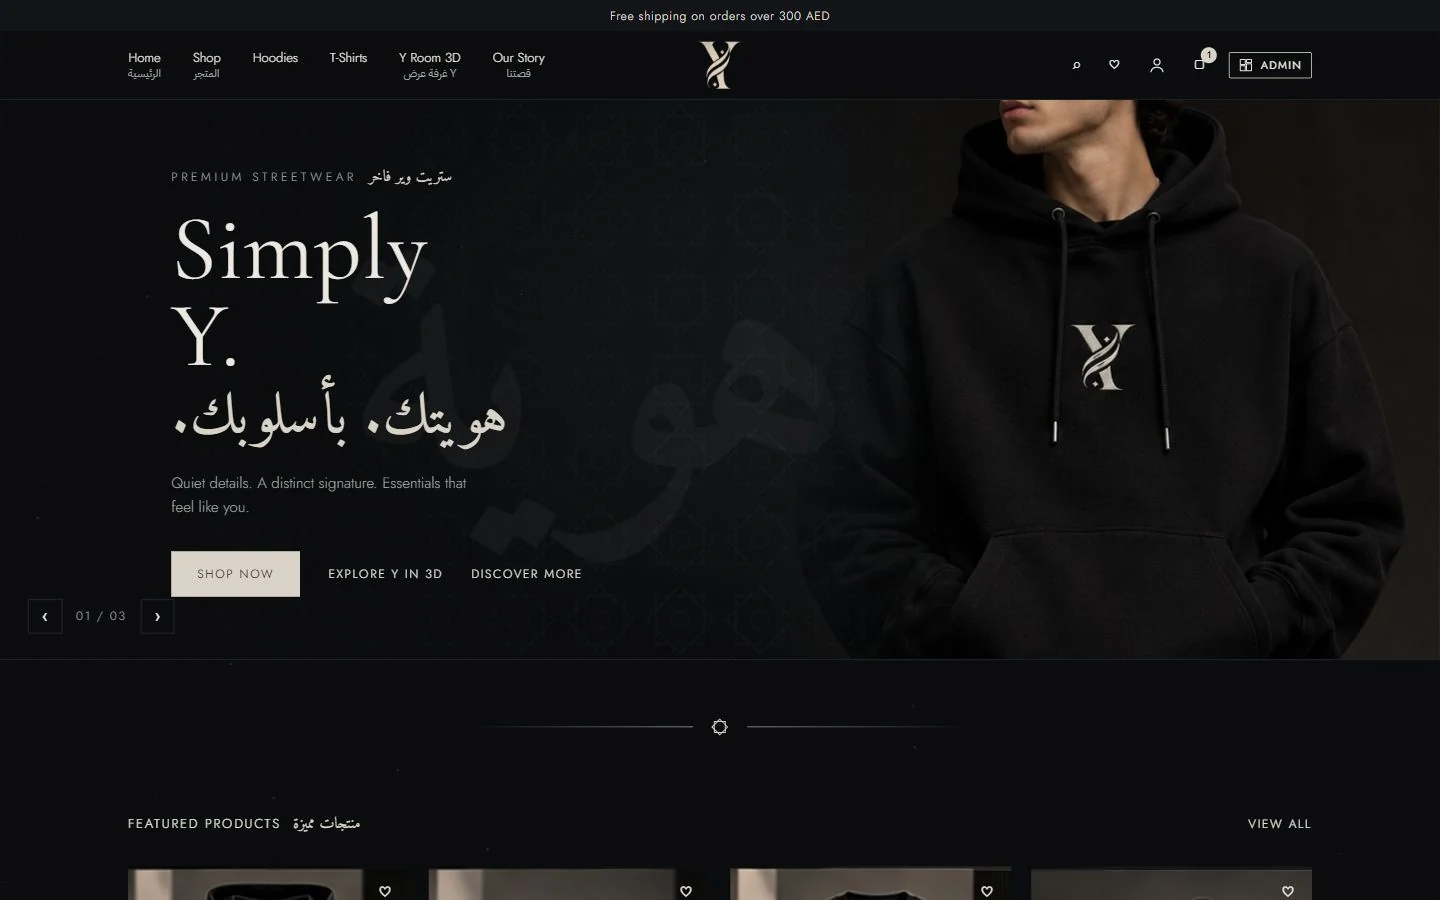
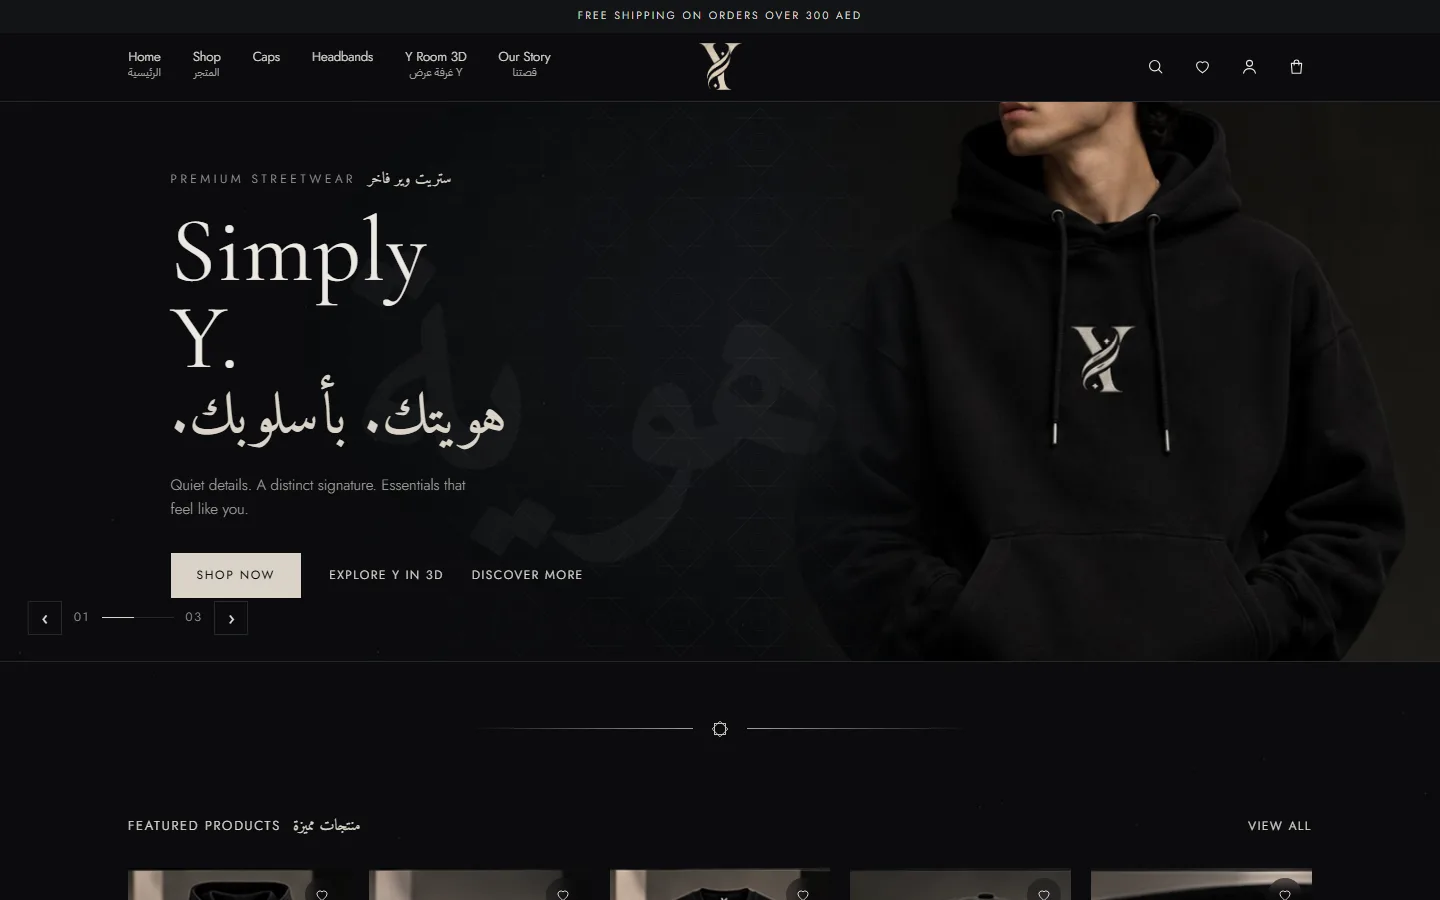
Refresh README and screenshots for the current design

diff --git a/README.md b/README.md
@@ -1,104 +1,93 @@
 # Y Store
 
-Y Store is a streetwear storefront built with Next.js and Supabase, pairing a conventional product catalog with an interactive 3D Locker Room showroom. Visitors can browse clothing and accessories, choose colours and sizes, save favourites, and place cash-on-delivery orders. A built-in browser-local demo lets you explore the interface without a database; Supabase enables persistent accounts, catalog administration and order processing.
+A full-stack streetwear store built with **Next.js 15** and **Supabase**: a bilingual English/Arabic storefront, server-rendered product pages, a transactional checkout, guest order tracking, customer accounts and an admin dashboard, plus an interactive 3D showroom.
 
-![Y Store desktop home page at 1440 by 900](docs/screenshots/01-home.webp)
+![Y Store home page](docs/screenshots/01-home.webp)
 
-## Features
+## Highlights
 
-- **Storefront:** category navigation, product search, price filtering, sorting, colour/size selection and a size guide.
-- **Cart and wishlist:** saved browser-local selections, quantity controls and a cart drawer shared with the showroom.
-- **Checkout:** delivery details, standard/express shipping, order confirmation and **cash on delivery**.
-- **Order tracking:** guests check an order's status at `/track` with the order number and checkout email.
-- **Accounts:** password sign-in, signup/email verification, password recovery and an email-code sign-in interface. Customers can edit their name, see order details and cancel an order while it is still New. Email delivery and numeric-code templates require Supabase email configuration.
-- **Admin panel:** products, colour/size inventory, categories, orders/status changes, order details/invoices, delivery rates, contact messages (read/replied) and newsletter subscribers. Connected administrators can upload product images. Demo administration is a local preview, not production authentication.
-- **3D Locker Room:** a bundled Three.js showroom whose garment selection and cart controls communicate with the store.
-- **Arabic product localization:** optional Arabic product names in the editor and product displays, plus Arabic text in parts of the interface. This is not a fully translated Arabic storefront.
+- **Database-enforced orders.** Checkout runs as a PostgreSQL function that locks products, recalculates prices and delivery on the server, and deducts per-variant stock in one transaction, so two shoppers can't buy the last item twice and a tampered cart can't change a price.
+- **Safe retries.** Each checkout carries a request UUID: retrying the same request returns the same order instead of creating a duplicate.
+- **Row-level security on every table.** Admin actions are checked on the server against `profiles.role`, never a browser flag. Guest order tracking returns status and items only, never phone numbers or addresses.
+- **Abuse limits** on orders, contact messages, newsletter sign-ups and order lookups, enforced in the database so they also cover direct API calls.
+- **SEO-ready product pages** with per-product metadata, schema.org `Product` data, a generated sitemap and stable URLs that redirect when a product is renamed.
+- **Tested.** Node.js unit tests and SQL integration tests (run in a rolled-back transaction), with GitHub Actions running tests and a production build on every push.
 
 ## Screenshots
 
-All captures use built-in demo data on an isolated local origin, without Supabase credentials or real customer records. Desktop uses a 1440 × 900 viewport; mobile uses 390 × 844. The product/cart image combines two actual captures to cover both views within six gallery files. Each image is under 300 KB.
-
-| Browse | Select and review |
+| Shop | Product page |
 | --- | --- |
-| ![Shop with category filters and product cards](docs/screenshots/02-shop.webp) | ![Product details modal and cart drawer, side by side](docs/screenshots/03-product-and-cart.webp) |
-| ![Demo admin overview and inventory/order navigation](docs/screenshots/04-admin.webp) | ![3D Locker Room showing Y clothing and accessories](docs/screenshots/05-locker-room.webp) |
+| ![Shop with category filters and product cards](docs/screenshots/02-shop.webp) | ![Product page with colour and size selection](docs/screenshots/03-product.webp) |
+| **Checkout** | **Admin dashboard** |
+| ![Checkout in three numbered steps with order summary](docs/screenshots/07-checkout.webp) | ![Admin overview with sales, orders and stock](docs/screenshots/04-admin.webp) |
 
-![Y Store home on a 390 by 844 mobile viewport](docs/screenshots/06-home-mobile.webp)
+| Mobile home | Mobile product page | 3D showroom |
+| --- | --- | --- |
+| ![Home page on a phone](docs/screenshots/06-home-mobile.webp) | ![Product page on a phone](docs/screenshots/08-product-mobile.webp) | ![3D Locker Room showroom](docs/screenshots/05-locker-room.webp) |
+
+## Features
+
+- **Storefront:** categories, search, price filter and sorting, colour and size selection with per-variant stock, size guide, wishlist and a cart drawer.
+- **Product pages:** one URL per product (`/product/essential-hoodie-0`), related products, and a quick-view window from the product grid.
+- **Checkout:** contact and delivery details, standard or express delivery with a free-delivery threshold, and cash on delivery.
+- **Order tracking:** guests look up an order at `/track` with the order number and checkout email.
+- **Accounts:** sign-up with email verification, password sign-in and recovery, order history, and cancelling an order while it is still New, which restores its stock once.
+- **Admin dashboard:** products and variant stock, categories, image uploads, orders and status changes, printable invoices, delivery rates, contact messages and newsletter subscribers.
+- **3D Locker Room:** a bundled Three.js showroom that shares the catalogue and cart with the store.
+- **Arabic touches:** Arabic product names and headings throughout the interface. It is not a fully translated Arabic storefront.
 
 ## Tech stack
 
-- **Next.js 15** App Router, server API routes and JavaScript/JSX.
-- **React 18** with shared context for cart, wishlist, catalog and session UI.
-- **Supabase** Auth, PostgreSQL and Storage, using `@supabase/supabase-js` and `@supabase/ssr`.
-- Plain CSS, a bundled **Three.js** showroom, Node.js tests and GitHub Actions.
-
-## Security and data integrity
-
-These protections apply to the connected Supabase setup after its SQL scripts are installed. Local demo mode is an interface preview.
-
-- **Row-level security:** database tables have RLS and access policies. Internal request/submission-limit tables use a non-public schema with no client access policies. See the [setup order](docs/SETUP.md#fresh-database-only).
-- **Server-side admin checks:** protected admin APIs validate the authenticated user and check `profiles.role` on the server, rather than trusting a browser flag.
-- **Authoritative orders:** database functions validate products, colours, sizes and combined quantities; recalculate prices/shipping; lock products; and update variant stock transactionally.
-- **Retry/cancellation handling:** a request UUID prevents identical checkout retries from creating another order. Reusing it for different content is rejected. Cancellation restores stock once.
-- **Rate limiting:** API handlers use an in-memory IP limiter. The supplied SQL adds shared database submission limits for orders, contact messages and newsletter inserts. These layers do not amount to comprehensive bot protection.
-- **Request/browser protections:** write APIs reject mismatching Origin headers when present. Production responses enforce a Content Security Policy and other security headers; the policy still permits inline scripts/styles needed by the current application.
-- **Order integrity tests:** [SQL tests](supabase/tests/order_integrity.sql) cover retries, unavailable variants, duplicate lines, missing sizes, cancellation and unauthorized status changes within a rollback transaction. They require a configured database and are separate from `npm test`.
+| Area | Tools |
+| --- | --- |
+| Frontend | Next.js 15 App Router, React 18, plain CSS |
+| Backend | Next.js route handlers and middleware, Supabase Auth, PostgreSQL functions and RLS, Supabase Storage |
+| 3D | Three.js |
+| Quality | Node.js test runner, SQL integration tests, GitHub Actions |
 
 ## Run locally
 
-Requires **Node.js 22 or newer** and npm.
+Requires **Node.js 22 or newer**.
 
-### Demo mode — no Supabase required
-
-Use a clean checkout with no local environment files and no Supabase/custom-API variables configured. No `.env` file is needed.
+### Demo mode (no database)
 
 ```sh
 npm ci
 npm run dev
 ```
 
-Open [localhost:3000](http://localhost:3000). Try `/shop`, product options, the cart, `/admin` and `/locker-room`. Demo changes live in that browser's local storage; they do not create server accounts, send real emails or persist orders to Supabase. Use demo data only.
+Open [localhost:3000](http://localhost:3000). With no environment variables set, the store runs on built-in demo data stored in the browser, including a local preview of `/admin`. Nothing is saved to a server.
 
 ### With Supabase
 
-Follow [SETUP.md](docs/SETUP.md) for database setup, public client configuration, administrator access and callback URLs. The code expects `NEXT_PUBLIC_SUPABASE_URL` and `NEXT_PUBLIC_SUPABASE_ANON_KEY` (a publishable key is supported). Leave `NEXT_PUBLIC_API_URL` empty for the built-in routes. See [email setup and its limitations](docs/AUTH-EMAIL-SETUP.md).
+Copy `.env.example` to `.env.local` and fill in `NEXT_PUBLIC_SUPABASE_URL` and `NEXT_PUBLIC_SUPABASE_ANON_KEY`. Then follow [docs/SETUP.md](docs/SETUP.md) to run the SQL setup files in order and grant an admin account. Email configuration is covered in [docs/AUTH-EMAIL-SETUP.md](docs/AUTH-EMAIL-SETUP.md).
 
-Keep actual configuration outside Git. Never put a service-role key, SMTP password or other server secret in a `NEXT_PUBLIC_*` variable. `.env.example` contains placeholders only.
+Never put a service-role key or any other server secret in a `NEXT_PUBLIC_*` variable.
 
-## Tests and CI
+## Tests
 
 ```sh
-npm test
-npm run build
+npm test        # inventory, validation and order-settings unit tests
+npm run build   # production build
 ```
 
-`npm test` runs Node.js inventory/validation tests in `tests/`. `npm run build` creates the production Next.js build; serve it with `npm start`.
-
-The [GitHub Actions workflow](.github/workflows/check.yml) installs dependencies with `npm ci`, runs `npm test`, and runs `npm run build` on pushes and pull requests using Node.js 22. It does not run database SQL tests or verify email delivery.
+SQL tests in [`supabase/tests/`](supabase/tests) cover order retries, unavailable variants, duplicate lines, cancellation, unauthorized status changes and tracking privacy. They run against a configured database inside a transaction that is rolled back.
 
 ## Project structure
 
 ```text
-app/                  Pages, layouts, auth callback and server API routes
-components/           Storefront, checkout, admin and showroom UI
-lib/                  API helpers, catalog, shipping, limiter and Supabase clients
-public/               Brand/product images and bundled 3D room
-supabase/             SQL setup, access controls, email templates and SQL tests
-tests/                Node.js inventory and validation tests
-docs/                 Setup notes and optimized demo screenshots
-.github/workflows/    Automated test/build checks
+app/                  Pages, layouts, product routes, auth callback and API routes
+components/           Storefront, product, checkout, account and admin UI
+lib/                  Catalogue, API helpers, shipping, rate limiter and Supabase clients
+public/               Brand and product images, bundled 3D room
+supabase/             SQL schema, access controls, migrations, email templates and SQL tests
+tests/                Node.js unit tests
+docs/                 Setup guides and screenshots
 ```
 
 ## Known limitations
 
-- **Cash on delivery only:** no online card-payment integration.
-- **Per-instance IP limits:** the in-memory limiter does not share counters across servers or survive restarts. Database submission limits supplement it but do not replace deployment-level abuse controls.
-- **Email needs configuration:** public delivery requires custom SMTP. Numeric OTP messages require token-bearing templates; a visible email-code form alone does not prove delivery is configured.
-- **Demo mode is not a backend:** browser-local accounts, permissions and orders are not suitable for a live store.
-- MFA enrollment/challenge UI and CAPTCHA are not implemented. Product visuals, prices, inventory and policy text require review before selling.
-- The 3D room retains its bundled garment visuals; changing a catalog image does not rebuild the room's textures.
-
-## What to keep out of Git
-
-The existing `.gitignore` excludes `.env`, `.env.local` and other environment variants, `node_modules/`, `.next/`, `.next-dev/`, logs, coverage and `*.zip`. Only the placeholder `.env.example` is exempted. Keep customer-data captures, database exports, SMTP/provider credentials and generated delivery archives outside the repository. Ignore rules do not remove already committed files; review staged filenames before pushing.
+- **Cash on delivery only;** there is no card payment integration yet.
+- **Email delivery needs custom SMTP** for public sign-ups; Supabase's built-in sender only reaches project team members.
+- The in-memory IP limiter is per server instance; the database limits back it up but are not full bot protection. There is no CAPTCHA or MFA.
+- Product photos, prices and policy text are placeholders for a demo store.

diff --git a/docs/SETUP.md b/docs/SETUP.md
@@ -84,6 +84,6 @@ Run `supabase/tests/customer_orders.sql` to test tracking privacy and customer c
 
 The clean delivery includes source, assets, SQL and tests, without dependency folders, build output or archives. Product images use the supplied HD sources rather than enlarged duplicates. Keep the lockfile; `npm ci` reproduces dependencies.
 
-Before the first Git push, inspect `git status` and confirm `.env.local` is absent. The GitHub ZIP excludes local environment values. Set environment values separately on the host, set `SITE_URL` to the HTTPS domain, and update Supabase redirect URLs. Deploying and pushing to GitHub have not been performed.
+Before pushing, inspect `git status` and confirm `.env.local` is absent. When deploying, set environment values separately on the host, set `SITE_URL` to the HTTPS domain, and update Supabase redirect URLs.
 
 The site remains a personal preview. Before selling, replace illustrative product shots/specifications with accurate product information and review shipping/returns/policy copy. Online payments, production email delivery and production-domain setup remain provider-specific work.
